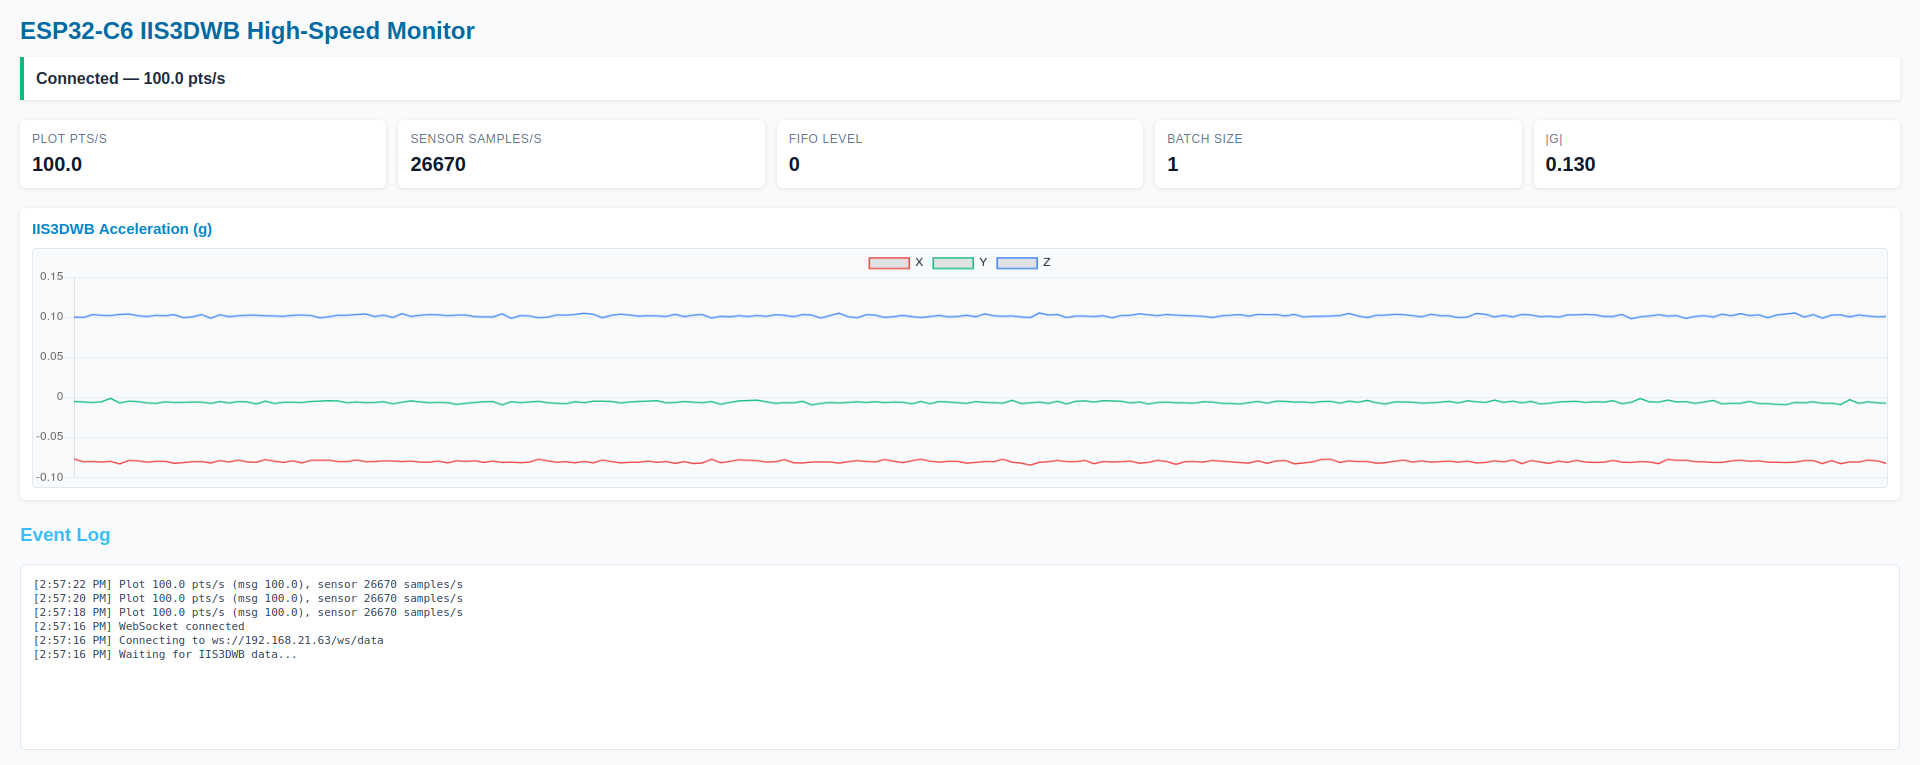
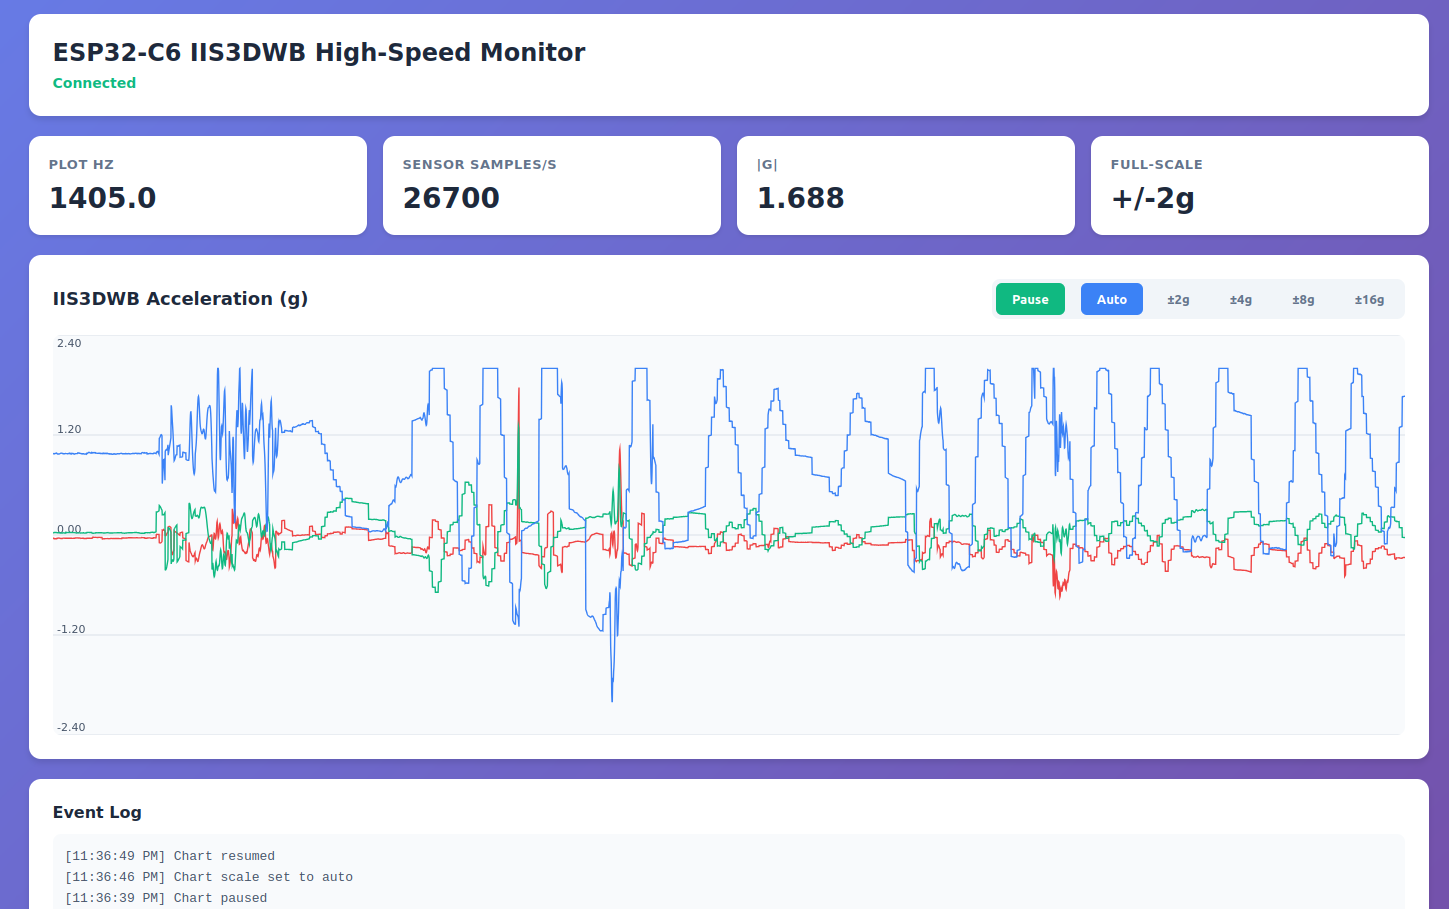
Update HighSpeed

diff --git a/ESP32C6_IIS3_WebMonitor_HighSpeed/data/app.js b/ESP32C6_IIS3_WebMonitor_HighSpeed/data/app.js
@@ -1,8 +1,8 @@
 // Chart Configuration
-const maxPoints = 10000;
+const maxPoints = 5000;
 const buffers = { x: [], y: [], z: [] };
 let selectedScale = 'auto';
-let manualScale = 16;
+let manualScale = 2;
 let isPaused = false;
 
 // Metrics elements
@@ -18,8 +18,6 @@ const metrics = {
 const connectionStatus = document.getElementById('connectionStatus');
 const deviceIp = document.getElementById('deviceIp');
 const eventLog = document.getElementById('eventLog');
-const pauseCard = document.getElementById('pauseCard');
-const pauseStatus = document.getElementById('pauseStatus');
 
 // Canvas setup
 const canvas = document.getElementById('accelChart');
@@ -39,16 +37,6 @@ function addLog(message) {
   while (eventLog.children.length > 50) {
     eventLog.removeChild(eventLog.lastChild);
   }
-}
-
-// Pause/Resume control
-if (pauseCard && pauseStatus) {
-  pauseCard.addEventListener('click', () => {
-    isPaused = !isPaused;
-    pauseStatus.textContent = isPaused ? 'Paused' : 'Running';
-    pauseStatus.style.color = isPaused ? '#ef4444' : '#10b981';
-    addLog('Chart ' + (isPaused ? 'paused' : 'resumed'));
-  });
 }
 
 // Canvas resizing
@@ -114,6 +102,8 @@ function drawChart() {
   const width = canvas.clientWidth || canvas.width / dpr;
   const height = canvas.clientHeight || canvas.height / dpr;
   
+  console.log('DEBUG: drawChart called - canvas size:', width, 'x', height, 'buffer lengths:', buffers.x.length, buffers.y.length, buffers.z.length);
+  
   ctx.setTransform(dpr, 0, 0, dpr, 0, 0);
   ctx.clearRect(0, 0, width, height);
   
@@ -123,6 +113,8 @@ function drawChart() {
   
   const [minVal, maxVal] = computeRange();
   const span = maxVal - minVal || 1;
+  
+  console.log('DEBUG: Y-axis range:', minVal, 'to', maxVal, 'span:', span);
   
   const colors = { x: '#ef4444', y: '#10b981', z: '#3b82f6' };
   const gridCount = 4;
@@ -175,12 +167,13 @@ function drawChart() {
 
 // Scale controls
 const scaleControls = document.getElementById('scaleControls');
-const scaleButtons = scaleControls ? Array.from(scaleControls.querySelectorAll('button')) : [];
+// Only select buttons that have a data-scale attribute (exclude Pause/Resume button)
+const scaleButtons = scaleControls ? Array.from(scaleControls.querySelectorAll('button[data-scale]')) : [];
 
 function applyScale(mode, opts) {
   const options = opts || {};
-  selectedScale = mode;
   
+  // Validate mode before assigning to selectedScale to avoid invalid states
   if (mode !== 'auto') {
     const parsed = Number(mode);
     if (!Number.isFinite(parsed)) {
@@ -189,17 +182,16 @@ function applyScale(mode, opts) {
     }
     manualScale = parsed;
   }
+  selectedScale = mode;
   
   if (scaleButtons.length) {
     scaleButtons.forEach(btn => btn.classList.toggle('active', btn.dataset.scale === mode));
   }
   
-  if (metrics.fs) {
-    if (mode === 'auto') {
-      metrics.fs.textContent = 'auto';
-    } else {
-      metrics.fs.textContent = '+/-' + manualScale + 'g';
-    }
+  if (mode === 'auto') {
+    metrics.fs.textContent = 'auto';
+  } else {
+    metrics.fs.textContent = '+/-' + manualScale + 'g';
   }
   
   if (!options.silent) {
@@ -251,6 +243,25 @@ if (scaleButtons.length) {
   applyScale('auto', { silent: true });
 }
 
+// Pause/Resume button handler
+const pauseResumeBtn = document.getElementById('pauseResumeBtn');
+if (pauseResumeBtn) {
+  pauseResumeBtn.addEventListener('click', () => {
+    isPaused = !isPaused;
+    
+    if (isPaused) {
+      pauseResumeBtn.textContent = 'Resume';
+      pauseResumeBtn.classList.add('paused');
+      addLog('Chart paused');
+    } else {
+      pauseResumeBtn.textContent = 'Pause';
+      pauseResumeBtn.classList.remove('paused');
+      addLog('Chart resumed');
+      scheduleDraw(); // Resume drawing immediately
+    }
+  });
+}
+
 // Config refresh
 function refreshConfig() {
   fetch('/api/config')
@@ -262,7 +273,7 @@ function refreshConfig() {
       if (cfg && cfg.imu_full_scale_g) {
         const fsVal = String(cfg.imu_full_scale_g);
         if (selectedScale === 'auto') {
-          if (metrics.fs) metrics.fs.textContent = '+/-' + fsVal + 'g';
+          metrics.fs.textContent = '+/-' + fsVal + 'g';
         } else {
           applyScale(fsVal, { silent: true });
         }
@@ -277,11 +288,18 @@ refreshConfig();
 
 // Data processing
 function pushValues(payload) {
-  if (!payload || !payload.chunks) return;
+  if (!payload || !payload.chunks) {
+    console.log('DEBUG: No payload or chunks', payload);
+    return;
+  }
   
   // Update metrics even when paused
-  if (payload.mag !== undefined && metrics.mag) {
+  if (payload.mag !== undefined) {
     metrics.mag.textContent = formatNumber(payload.mag, 3);
+  }
+  
+  if (payload.fs !== undefined && selectedScale === 'auto') {
+    metrics.fs.textContent = '+/-' + payload.fs + 'g';
   }
   
   if (payload.s) {
@@ -292,8 +310,11 @@ function pushValues(payload) {
     if (s.batch !== undefined && metrics.batch) metrics.batch.textContent = s.batch;
   }
   
-  // Skip chart update if paused
-  if (isPaused) return;
+  // Skip adding data to buffers if paused
+  if (isPaused) {
+    console.log('DEBUG: Chart paused, skipping data');
+    return;
+  }
   
   const chunk = payload.chunks;
   const xs = Array.isArray(chunk.x) ? chunk.x : [];
@@ -301,7 +322,12 @@ function pushValues(payload) {
   const zs = Array.isArray(chunk.z) ? chunk.z : [];
   
   const len = Math.min(xs.length, ys.length, zs.length);
-  if (!len) return;
+  console.log('DEBUG: Received chunk data - x:', xs.length, 'y:', ys.length, 'z:', zs.length, 'min:', len);
+  
+  if (!len) {
+    console.log('DEBUG: No data in chunks');
+    return;
+  }
   
   for (let i = 0; i < len; i++) {
     if (buffers.x.length >= maxPoints) {
@@ -315,6 +341,7 @@ function pushValues(payload) {
     buffers.z.push(Number(zs[i]));
   }
   
+  console.log('DEBUG: Buffer sizes after push - x:', buffers.x.length, 'y:', buffers.y.length, 'z:', buffers.z.length);
   scheduleDraw();
 }
 
@@ -356,10 +383,13 @@ function connectWebSocket(ip) {
   
   ws.onmessage = (event) => {
     try {
+      console.log('DEBUG: WebSocket message received, length:', event.data.length);
       const data = JSON.parse(event.data);
+      console.log('DEBUG: Parsed JSON data:', data);
       pushValues(data);
     } catch (err) {
       addLog('Parse error: ' + err.message);
+      console.error('DEBUG: Parse error:', err, 'Raw data:', event.data);
     }
   };
   
@@ -384,3 +414,42 @@ function connectWebSocket(ip) {
 // Initialize
 addLog('Waiting for IIS3DWB data...');
 getDeviceIp().then(ip => connectWebSocket(ip));
+
+// Debug helpers - accessible from browser console
+window.debugChart = {
+  getBuffers: () => ({
+    x: buffers.x.slice(0, 10), // First 10 samples
+    y: buffers.y.slice(0, 10),
+    z: buffers.z.slice(0, 10),
+    lengths: { x: buffers.x.length, y: buffers.y.length, z: buffers.z.length }
+  }),
+  forceRedraw: () => {
+    console.log('Forcing redraw...');
+    drawChart();
+  },
+  injectTestData: () => {
+    console.log('Injecting test data...');
+    for (let i = 0; i < 100; i++) {
+      buffers.x.push(Math.sin(i * 0.1));
+      buffers.y.push(Math.cos(i * 0.1));
+      buffers.z.push(Math.sin(i * 0.05) * 0.5);
+    }
+    console.log('Test data injected. Buffer lengths:', buffers.x.length);
+    scheduleDraw();
+  },
+  clearBuffers: () => {
+    buffers.x = [];
+    buffers.y = [];
+    buffers.z = [];
+    console.log('Buffers cleared');
+    scheduleDraw();
+  },
+  isPaused: () => isPaused,
+  togglePause: () => {
+    isPaused = !isPaused;
+    console.log('isPaused:', isPaused);
+  }
+};
+
+console.log('DEBUG: Debug helpers loaded. Use window.debugChart in console.');
+console.log('Available commands: getBuffers(), forceRedraw(), injectTestData(), clearBuffers(), isPaused(), togglePause()');

diff --git a/ESP32C6_IIS3_WebMonitor_HighSpeed/data/index.html b/ESP32C6_IIS3_WebMonitor_HighSpeed/data/index.html
@@ -12,7 +12,7 @@
 <body>
   <div class="container">
     <header>
-      <h1>ESP32-C6 IIS3DWB High-Speed Monitor 111 </h1>
+      <h1>ESP32-C6 IIS3DWB High-Speed Monitor</h1>
       <div class="status">
         <span id="connectionStatus">Connecting...</span>
         <span id="deviceIp"></span>
@@ -42,6 +42,7 @@
         <div class="chart-header">
           <h2>IIS3DWB Acceleration (g)</h2>
           <div id="scaleControls" class="scale-controls">
+            <button id="pauseResumeBtn" data-action="pause">Pause</button>
             <button data-scale="auto">Auto</button>
             <button data-scale="2">±2g</button>
             <button data-scale="4">±4g</button>

diff --git a/ESP32C6_IIS3_WebMonitor_HighSpeed/data/style.css b/ESP32C6_IIS3_WebMonitor_HighSpeed/data/style.css
@@ -131,6 +131,24 @@ header h1 {
   cursor: wait;
 }
 
+#pauseResumeBtn {
+  margin-right: 8px;
+  background: #10b981 !important;
+  color: white !important;
+}
+
+#pauseResumeBtn:hover {
+  background: #059669 !important;
+}
+
+#pauseResumeBtn.paused {
+  background: #f59e0b !important;
+}
+
+#pauseResumeBtn.paused:hover {
+  background: #d97706 !important;
+}
+
 .chart-container {
   position: relative;
   height: 400px;

diff --git a/ESP32C6_IIS3_WebMonitor_HighSpeed/main/web_server.c b/ESP32C6_IIS3_WebMonitor_HighSpeed/main/web_server.c
@@ -18,7 +18,7 @@ static httpd_handle_t server = NULL;
 static httpd_handle_t ws_server = NULL;
 
 #define WS_PLOT_CHUNK_SAMPLES      100
-#define WS_PLOT_BUFFER_CAPACITY    10000
+#define WS_PLOT_BUFFER_CAPACITY    5000
 #define WS_RECENT_MAX_SAMPLES      IMU_MANAGER_MAX_SAMPLES
 
 // WebSocket connection tracking
